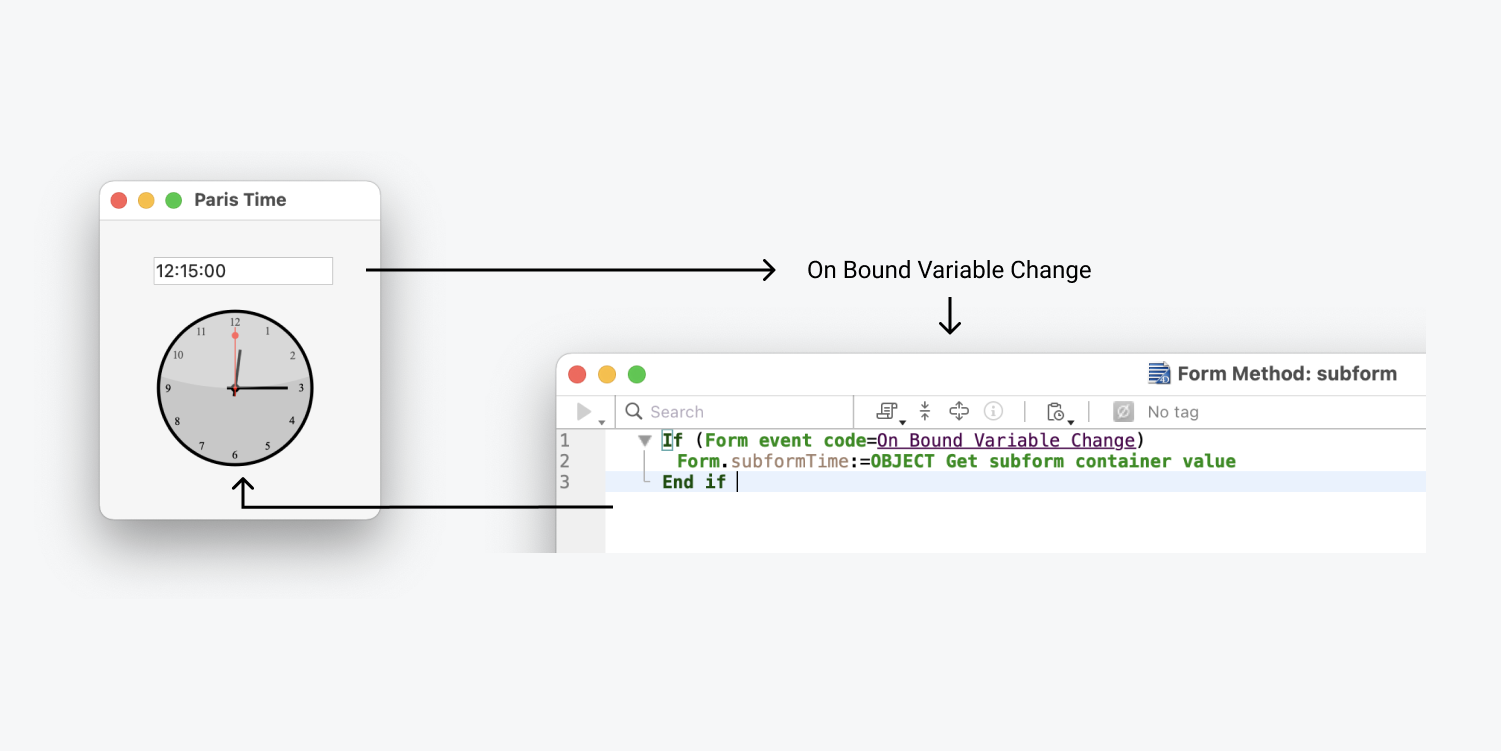
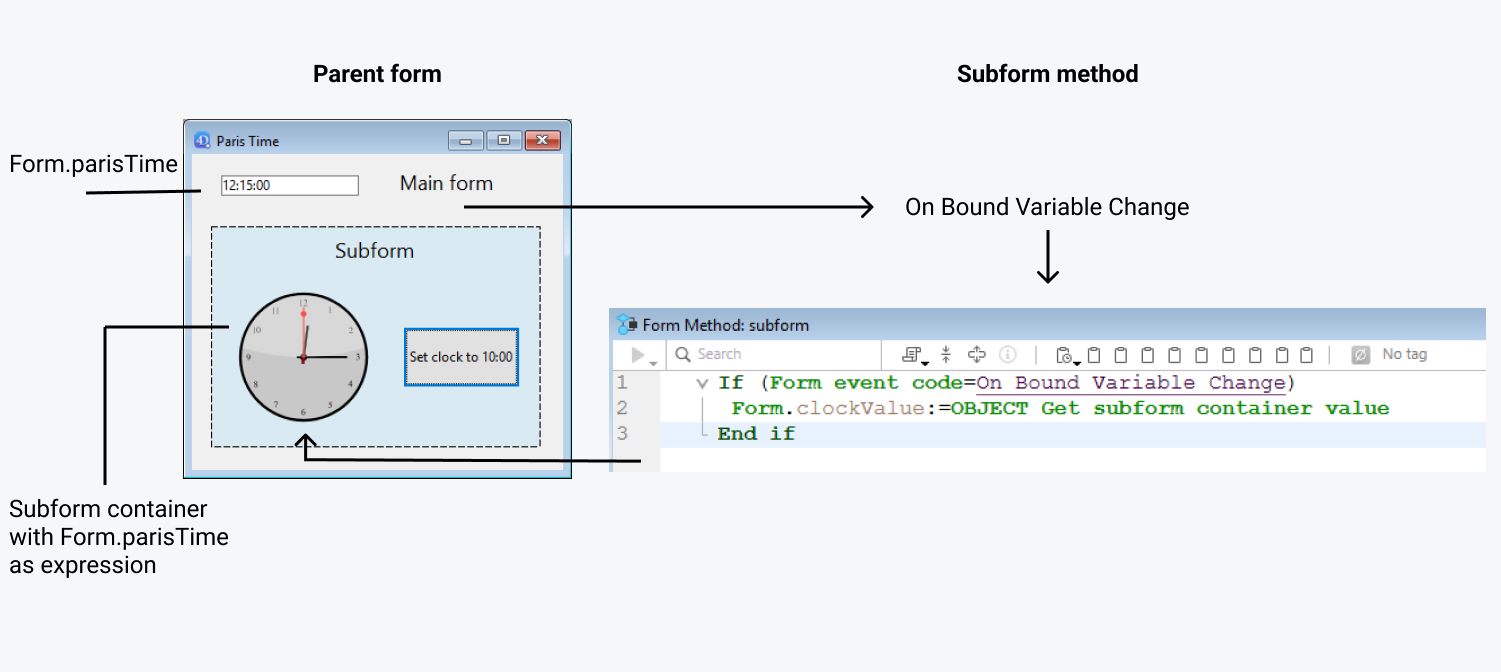
rewrite section on inter form programming

Changed region(s): [[0.0, 0.1562, 1.0, 0.875], [0.6129, 0.0938, 0.7662, 0.125], [0.1839, 0.0938, 0.3065, 0.125]]

diff --git a/docs/FormObjects/subform_overview.md b/docs/FormObjects/subform_overview.md
@@ -43,7 +43,7 @@ The page subform uses the input form indicated by the [Detail Form](properties_S
 
 ### Using the subform bound object
 
-4D automatically binds an object (`C_OBJECT`) to each subform. The contents of this object can be read and/or modified from within the context of the subform, allowing you to share values in a local context.
+4D automatically binds a variable of type object to each subform. The contents of this object can be read and/or modified from within the context of the subform, allowing you to share values in a local context.
 
 The object can be created automatically or be the parent container's variable, if explicitely named and typed as Object (see below). This object is returned by the `Form` command, which can be called directly in the subform (using a pointer is useless in this case). Since objects are always passed by reference, if the user modifies a property value in the subform, it will automatically be saved in the object itself. 
 
@@ -68,13 +68,13 @@ You can modify the labels from the subform by assigning values to the *InvoiceAd
 
 ![](assets/en/FormObjects/subforms5.png)
 
-### Managing the bound variable
+### Managing the bound variable or expression
 
 The [variable or expression](properties_Object.md#variable-or-expression) bound to a page subform lets you link the parent form and subform contexts to put the finishing touches on sophisticated interfaces. For example, imagine a subform representing a dynamic clock, inserted into a parent form containing an enterable variable of the Time type:
 
 ![](assets/en/FormObjects/subforms1.png)
 
-Both objects (time variable and subform container) *have the same variable name*. In this case, when you open the parent form, 4D synchronizes both values automatically. If the variable value is set at several locations, 4D uses the value that was loaded last. It applies the following loading order:
+Both objects (time variable and subform container) *have the same variable name or expression*. In this case, when you open the parent form, 4D synchronizes both values automatically. If the variable value is set at several locations, 4D uses the value that was loaded last. It applies the following loading order:
 1-Object methods of subform
 2-Form method of subform
 3-Object methods of parent form
@@ -87,41 +87,43 @@ Communication between the parent form and the instances of the subform may requi
 
 4D has implemented the following mechanisms to meet these needs:
 
-- Use of the "subform" parameter with the `OBJECT Get name` command to specify the subform object and the `OBJECT Get pointer` command.
-- Calling of a container object from the subform using the `CALL SUBFORM CONTAINER` command,
-- Execution of a method in the context of the subform via the `EXECUTE METHOD IN SUBFORM` command.
+- Use of the `OBJECT Get subform container value` and `OBJECT SET SUBFORM CONTAINER VALUE`
+- Calling of a container object from the subform using the `CALL SUBFORM CONTAINER` command
+- Execution of a method in the context of the subform via the `EXECUTE METHOD IN SUBFORM` command
 
-#### Updating subform contents
+#### Updating the contents of a subform
 
-Case 1: The value of the parent form variable or expression is modified and this modification must be passed on to the subform. In our example, the time of ParisTime changes to 12:15:00, either because the user entered it, or because it was updated dynamically (via the `Current time` command for example).
-
-In this case, you must use the On Bound Variable Change form event. This event must be selected in the subform properties; it is generated in the form method of the subform.
+Case 1: The value of the parent form variable or expression is modified and this modification must be passed on to a subform. 
+f
+In this example: 
+* `Form.parisTime` is an expression of type Time attached to the Input object and the subform container. 
+* `Form.parisTime` changes to 12:15:00, either because the user entered it, or because it was updated dynamically (via the `Current time` command for example). This triggers the On Bound Variable change from the subform's Form method, which updates the value of `Form.clockValue` in the subform:
 
 ![](assets/en/FormObjects/update-subform.png)
 
 The `On Bound Variable Change` form event is generated:
 
-- as soon as a value is assigned to the variable of the parent form, even if the same value is reassigned,
+- as soon as a value is assigned to the variable of the parent form, even if the same value is reassigned
 - if the subform belongs to the current form page or to page 0.
 
 Note that, as in the above example, it is preferable to use the `OBJECT Get subform container value` command which returns the value of the expression in the subform container rather than its variable because it is possible to insert several subforms in the same parent form (for example, a window displaying different time zones contains several clocks). 
 
-#### Updating parent form contents
+> In versions prior to v19 R5, you had to use the `OBJECT Get pointer` command to perform such operations.
 
-Case 2: The contents of the subform are modified and this modification must be passed on to the parent form. In our example, imagine that the subform interface lets the user "manually" move the hands of the clock. 
+#### Updating the contents of a parent form
 
-In this case, from the subform, you must assign the object value to the variable of the parent subform container. As in the previous example, we recommend that you use the `OBJECT Get pointer` command with the `Object subform container` selector which returns a pointer to the subform container. 
+Case 2: The contents of the subform are modified and this modification must be passed on to the parent form. 
 
-Assigning the value to the variable generates the `On Data Change` form event in the object method of the parent subform container, which lets you perform any type of action. The event must be selected in the properties of the subform container.
+Inside the subform, the button changes the value of the `Form.clockValue` expression of type Time attached to the clock object. This triggers the On Data Change event inside the clock object, which updates the `Form.parisTime` value in the main form: 
 
-![](assets/en/FormObjects/subforms3.png)
+![](assets/en/FormObjects/update-main-form.png)
 
-> If you "manually" move the hands of the clock, this also generates the `On Data Change` form event in the object method of the *clockValue* variable in the subform.
+Everytime the value of `Form.clockValue` changes in the subform, `Form.parisTime` in the subform container is also updated.
+
+> In versions prior to v19 R5, you had to use the `OBJECT Get pointer` command to perform such operations.
 
 
-
-
-#### Object get pointer and Object get name commands
+#### OBJECT get pointer and Object get name commands
 In addition to the `Object subform container` selector, the `OBJECT Get pointer` command accepts a parameter that indicates in which subform to search for the object whose name is specified in the second parameter. This syntax can only be used when the Object named selector is passed. 
 
 For example, the following statement:
